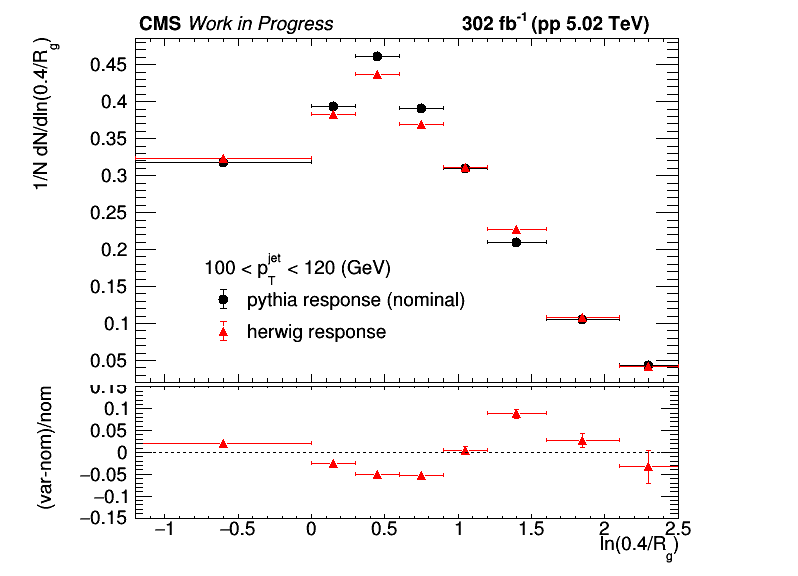
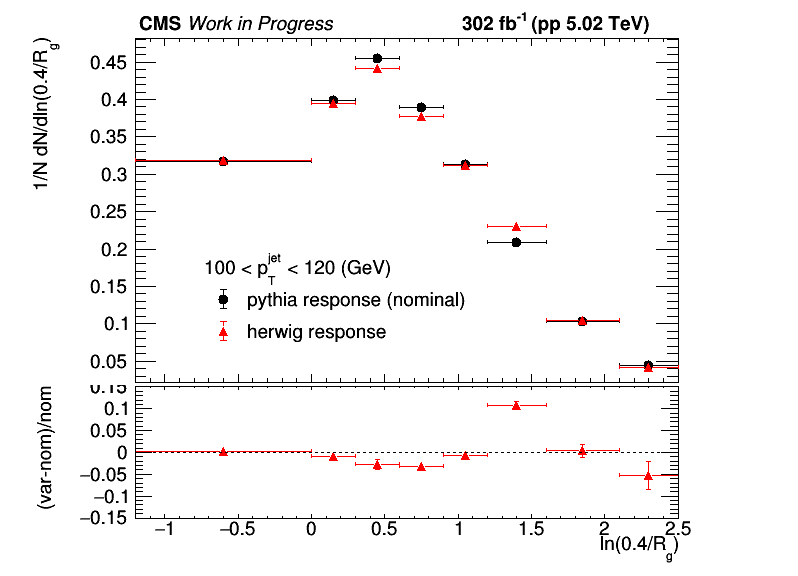
model response unc for btag rg/zg/z

diff --git a/myMacros/C106X/uncertanties/model_unc.C b/myMacros/C106X/uncertanties/model_unc.C
@@ -1,0 +1,139 @@
+#include "../draw_utils.h"
+
+void model_unc(TString observable="rg")
+{
+     // Setup 
+    Float_t text_size = 20.;
+    gStyle->SetTextSize(text_size);
+    gStyle->SetLegendTextSize(text_size);
+    gStyle->SetLabelSize(text_size, "XYZ");
+    gStyle->SetTitleSize(text_size, "XYZ");
+    gStyle->SetErrorX(0.5);
+
+    TString xlabel;
+    if (observable=="rg") xlabel = "ln(0.4/R_{g})";
+    else if (observable=="zg") xlabel = "z_{g}";
+    else if (observable=="zpt") xlabel = "z";
+    TString ylabel = "1/N dN/d" + xlabel;
+
+    TFile *fin_nom = new TFile("../unfolding/histos/bjet_aggrTMVA_XXT_unfolded_histograms_"+observable+"_jer_nom_jec_nom_withSF.root");
+    TH2D *h_nom = (TH2D *) fin_nom->Get("h_data_unfolded")->Clone("h_nom");
+    TFile *fin_her = new TFile("../unfolding/histos/herwig_bjet_aggrTMVA_XXT_unfolded_histograms_"+observable+"_jer_nom_jec_nom_withSF.root");
+    TH2D *h_her = (TH2D *) fin_her->Get("h_data_unfolded")->Clone("h_her");
+    
+    int nbins_x = h_nom->GetNbinsX();
+    int nbins_pt = h_nom->GetNbinsY();
+
+    TCanvas *c_model = new TCanvas("c_model", "", 800, 600);
+    // TPad *pad11 = new TPad("pad11", "", 0., 0., 0.33, 0.35);
+    TPad *pad12 = new TPad("pad12", "", 0., 0., 1., 0.33);
+    // TPad *pad13 = new TPad("pad13", "", 0.66, 0., 0.99, 0.35);
+    // TPad *pad21 = new TPad("pad21", "", 0., 0.35, 0.33, 1.);
+    TPad *pad22 = new TPad("pad22", "", 0., 0.33, 1., 1.);
+    // TPad *pad23 = new TPad("pad23", "", 0.66, 0.35, 0.99, 1.);
+
+    TPad *pad11, *pad13, *pad21, *pad23;
+
+    std::vector<TPad *> bottom_pads = {pad11, pad12, pad13};
+    std::vector<TPad *> top_pads = {pad21, pad22, pad23};
+    
+    TFile *fout = new TFile("./histos/"+observable+"_model_unc_XXT.root", "recreate");
+    
+    for (int ibin_pt = 1; ibin_pt <= nbins_pt; ibin_pt++) {
+        if (ibin_pt!=2) continue;
+        int ipad = ibin_pt - 1;
+
+        double pt_min = h_nom->GetYaxis()->GetBinLowEdge(ibin_pt);
+        double pt_max = h_nom->GetYaxis()->GetBinUpEdge(ibin_pt);
+        std::cout << ibin_pt << ": " << pt_min << ", " << pt_max << std::endl;
+
+        TLegend *leg;
+        if (observable=="rg") leg = new TLegend(0.25, 0.1, 0.65, 0.35);
+        if (observable=="zg") leg = new TLegend(0.6, 0.55, 0.9, 0.85);
+        if (observable=="zpt") leg = new TLegend(0.6, 0.55, 0.9, 0.85);
+        leg->SetFillStyle(0);
+        leg->SetBorderSize(0);
+        leg->SetMargin(0.15);
+        leg->SetHeader(Form("%.0f < p_{T}^{jet} < %.0f (GeV)", pt_min, pt_max));
+
+        // Make projections 
+        TH1D *h_nom_1d = (TH1D *) h_nom->ProjectionX(Form("h_nom_1d_%d", ibin_pt), ibin_pt, ibin_pt);
+        TH1D *h_her_1d = (TH1D *) h_her->ProjectionX(Form("h_her_1d_%d", ibin_pt), ibin_pt, ibin_pt);
+        
+        int ibin_x_min = 1;
+        int ibin_x_max = nbins_x;
+
+        // if (observable=="rg") {
+        //     ibin_x_min = 2;
+        //     ibin_x_max = nbins_x - 1;
+        // }
+
+        h_nom_1d->SetMarkerStyle(kFullCircle); 
+        h_nom_1d->SetMarkerColor(kBlack);
+        h_nom_1d->SetLineColor(kBlack);
+        leg->AddEntry(h_nom_1d, "pythia response (nominal)", "pe1");
+
+        h_her_1d->SetMarkerStyle(kFullTriangleUp); 
+        h_her_1d->SetMarkerColor(kRed);
+        h_her_1d->SetLineColor(kRed);
+        leg->AddEntry(h_her_1d, "herwig response", "pe1");
+
+        top_pads[ipad]->cd();
+        // top_pads[ipad]->SetRightMargin(0.05);
+        // top_pads[ipad]->SetLeftMargin(0.2);
+        top_pads[ipad]->SetBottomMargin(0.01);
+        for (auto h : {h_nom_1d, h_her_1d}) {
+            h->GetXaxis()->SetRange(ibin_x_min, ibin_x_max);
+            h->Scale(1/h->Integral(), "width");
+            h->GetYaxis()->SetTitle(ylabel);
+            h->GetYaxis()->SetTitleOffset(2.);
+        }
+        h_her_1d->Draw("pe1 same");
+        h_nom_1d->Draw("pe1 same");
+        leg->Draw();
+        drawHeader();
+
+        // Extract uncertainties 
+        TH1D * h_model_unc = (TH1D *) h_her_1d->Clone(Form("h_model_unc_%d", ibin_pt));
+        h_model_unc->Add(h_nom_1d, -1);
+        h_model_unc->GetYaxis()->SetTitle("var-nom");
+        h_model_unc->GetYaxis()->SetTitleOffset(2.);
+        h_model_unc->GetXaxis()->SetTitle(xlabel);
+        h_model_unc->GetXaxis()->SetTitleOffset(3.);
+
+        // fout->cd();
+        h_model_unc->Write();
+
+        // save relative uncertainty 
+        TH1D *h_model_unc_rel = (TH1D *) h_model_unc->Clone(Form("h_model_unc_rel_%d", ibin_pt));
+        h_model_unc_rel->Divide(h_nom_1d);
+        h_model_unc_rel->GetYaxis()->SetTitle("(var-nom)/nom");
+        h_model_unc_rel->GetYaxis()->SetTitleOffset(2.);
+        h_model_unc_rel->SetMinimum(-0.3);
+        h_model_unc_rel->SetMaximum(0.3);
+        h_model_unc_rel->Write();
+
+        bottom_pads[ipad]->cd();
+        bottom_pads[ipad]->SetTopMargin(0.01);
+        bottom_pads[ipad]->SetBottomMargin(0.3);
+        // bottom_pads[ipad]->SetRightMargin(0.05);
+        // bottom_pads[ipad]->SetLeftMargin(0.2);
+        
+        // h_model_unc->Draw("hist same");
+        h_model_unc_rel->Draw("pe1 same");
+
+        TLine *line = new TLine(h_model_unc->GetXaxis()->GetBinLowEdge(ibin_x_min), 0, h_model_unc->GetXaxis()->GetBinUpEdge(ibin_x_max), 0);
+        line->SetLineStyle(kDashed);
+        line->Draw();
+
+        c_model->cd();
+        top_pads[ipad]->Draw();
+        bottom_pads[ipad]->Draw();
+
+
+    }
+    c_model->cd();
+    c_model->Print("plots_an/model_response_unc_XXT_"+observable+".png");
+    // fout->Close();
+    // delete fout;
+}
